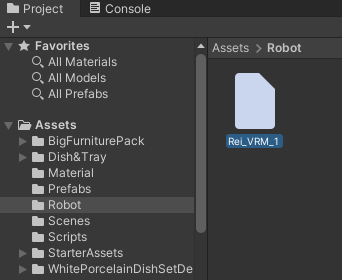
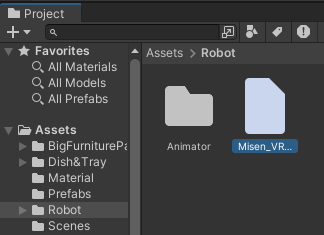
Revise install doc.

Changed region(s): [[0.0, 0.0, 1.0, 1.0], [0.3704, 0.7149, 0.4012, 0.7447]]

diff --git a/doc/install/install_doc_en.md b/doc/install/install_doc_en.md
@@ -72,7 +72,7 @@ Install the following assets from the Unity Asset Store.
 
 For instructions on how to install assets, please refer to the link below.
 
-<https://docs.unity3d.com/2021.2/Documentation/Manual/AssetPackagesPurchase.html>
+<https://docs.unity3d.com/2021.3/Documentation/Manual/AssetPackagesPurchase.html>
 
 ### 2.5. Reposition the Robot
 
@@ -80,21 +80,21 @@ The first time, the .vrm file may not be loaded correctly, so follow the steps b
 
 #### 2.5.1. Copy the ".vrm" File
 
-Open the "MaidRobotCafe", "Assets", "Robot" folder of this repository. Copy the "Rei_VRM_1.vrm" file to another folder.
+Open the "MaidRobotCafe", "Assets", "Robot" folder of this repository. Copy the "Misen_VRM_1.vrm" file to another folder.
 
-Alternatively, download the model file from the Vroid Hub below and change the file name to "Rei_VRM_1.vrm".
+Alternatively, download the model file from the Vroid Hub below and change the file name to "Misen_VRM_1.vrm".
 
 <https://hub.vroid.com/characters/1254861402411331672/models/5998322075644097762>
 
 #### 2.5.2. Delete the ".vrm" File
 
-In the Unity editing screen, select the "Assets", "Robot" folder in the "Project" pane. Click on "Rei_VRM_1" and press the Delete key to delete it.
+In the Unity editing screen, select the "Assets", "Robot" folder in the "Project" pane. Click on "Misen_VRM_1" and press the Delete key to delete it.
 
 ![Delete vrm](./delete_vrm.png)
 
 #### 2.5.3. Drag and Drop the ".vrm" File
 
-Drag and drop the "Rei_VRM_1.vrm" file you copied in section (2.5.1.) into the "Robot" folder in the Unity editing screen.
+Drag and drop the "Misen_VRM_1.vrm" file you copied in section (2.5.1.) into the "Robot" folder in the Unity editing screen.
 
 ![Drag and Drop](./drag_and_drop_vrm.png)
 
